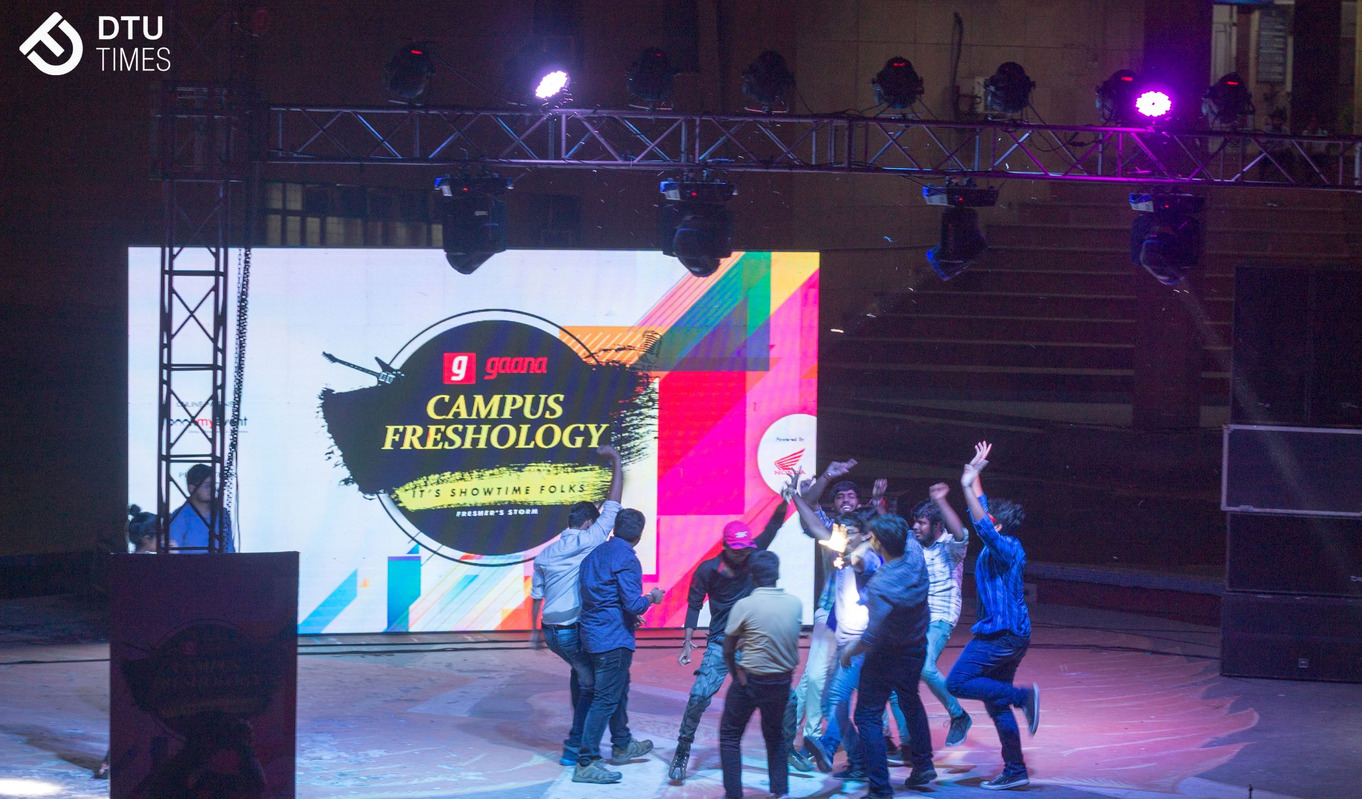
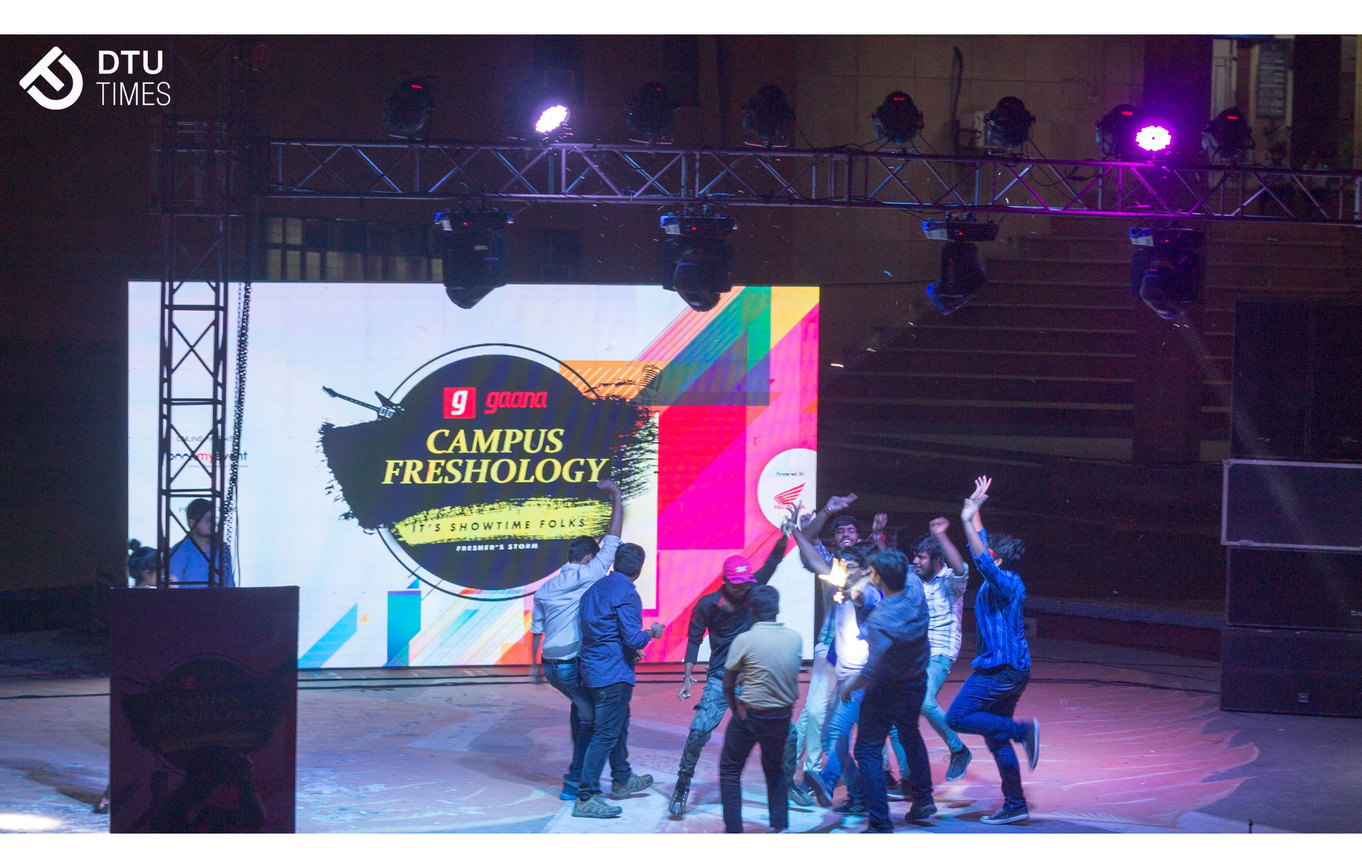
images optimized

diff --git a/Development/indexnew.html b/Development/indexnew.html
@@ -664,8 +664,9 @@ Tip: 'Try to maintain an average CGPA and concentrate on the real-world applicat
 				</div>
 				<!-- #posts end -->
 			</div>
-
+			<br>
 		</section><!-- #content end -->
+		<br>
 		<!-- Footer
 		============================================= -->
 	<footer id="footer"  class="footer">
